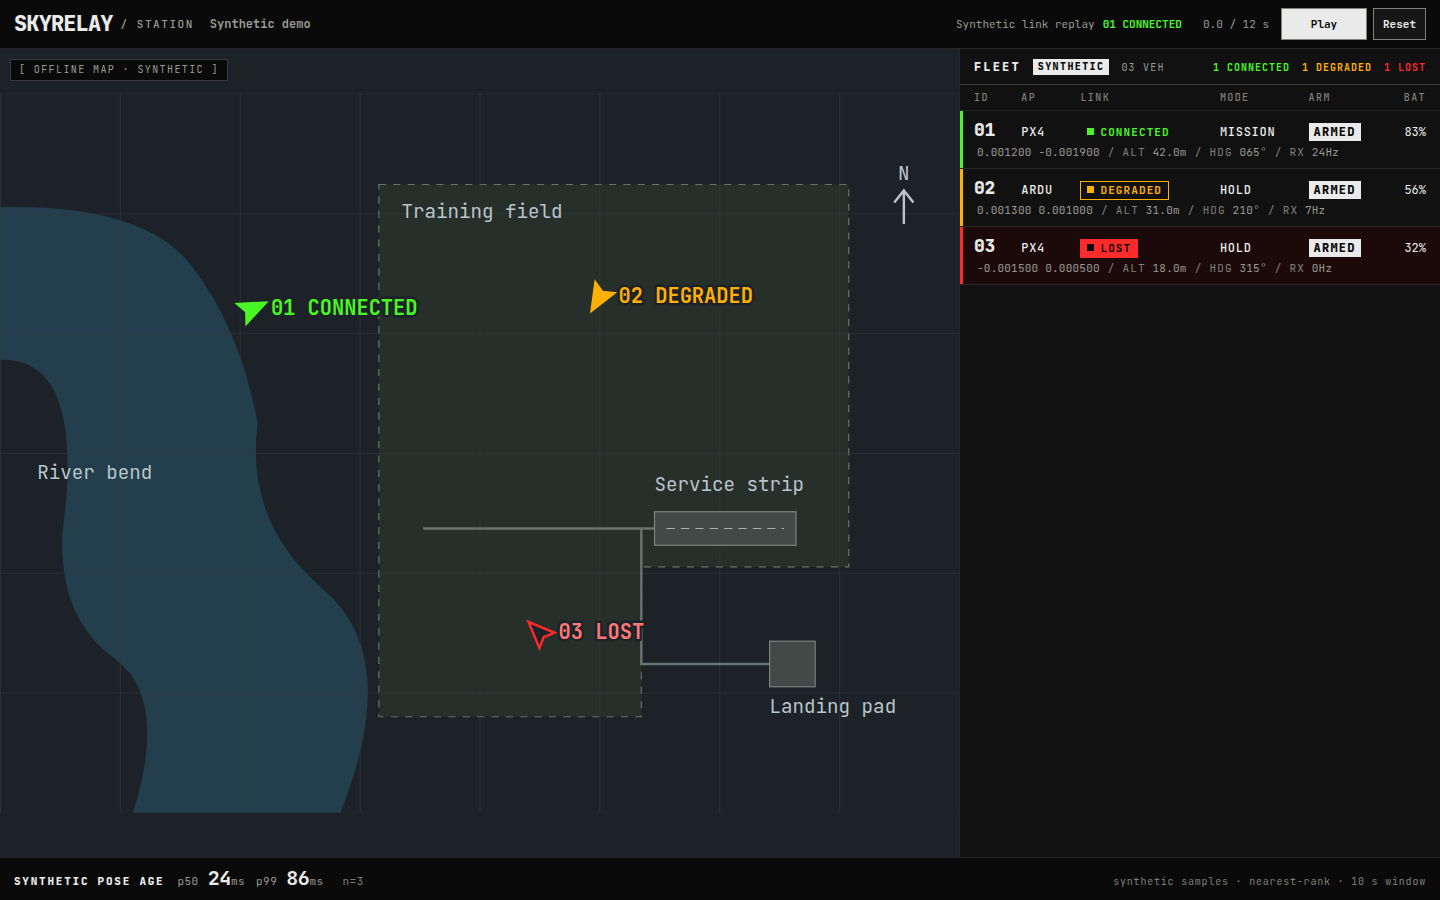
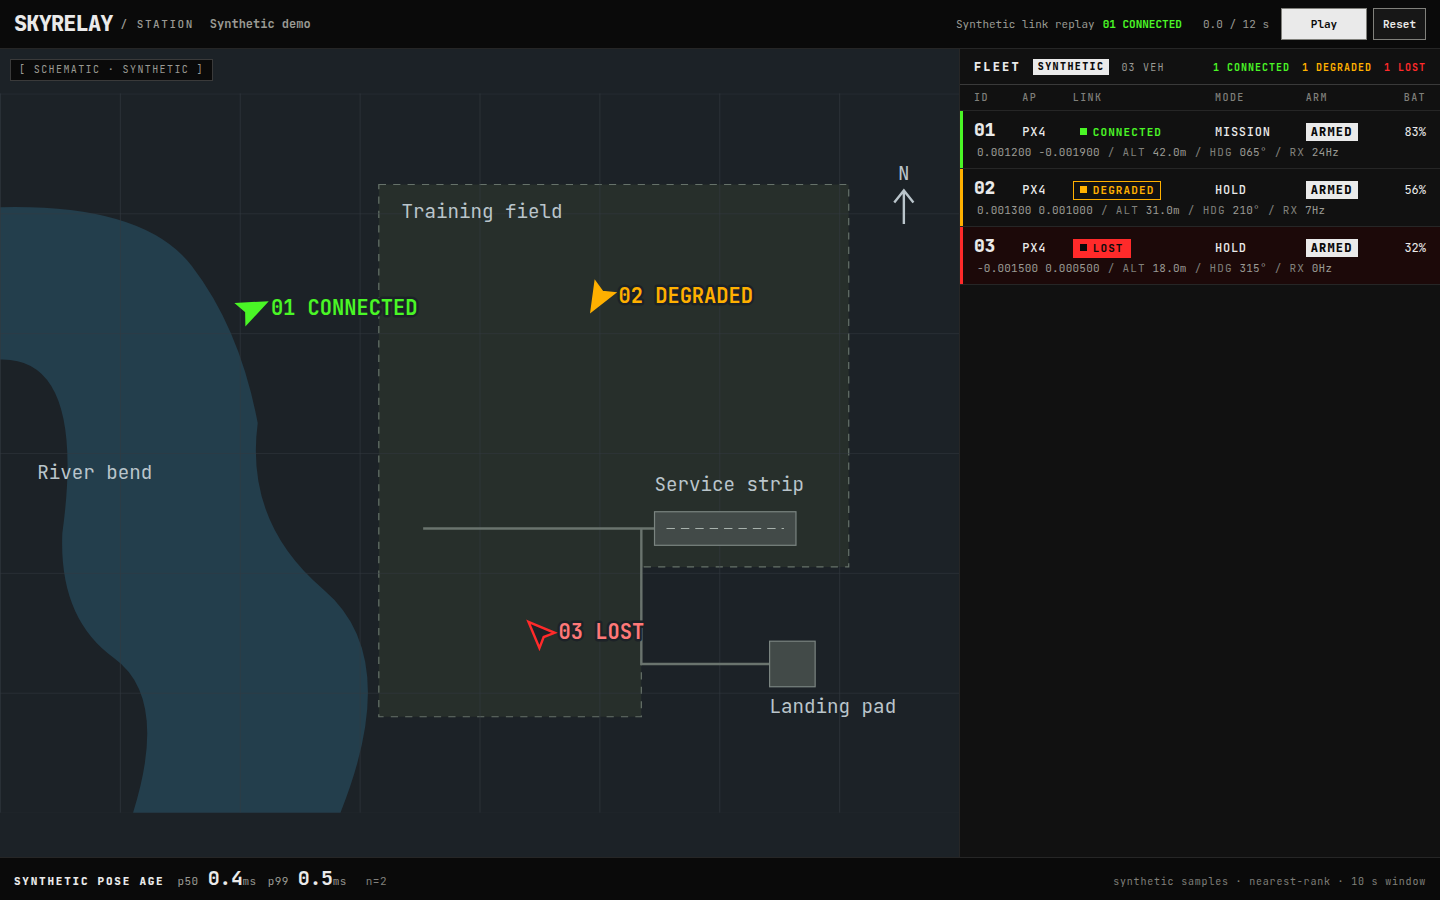
Keep the demo's pose ages small and flat, make every demo vehicle PX4 and call its map a schematic

diff --git a/web/station/src/demo/snapshot.ts b/web/station/src/demo/snapshot.ts
@@ -6,10 +6,15 @@ import { countsForLatency, LatencyWindow } from '../state/latency'
 
 export const SCHEMATIC_BOUNDS = { west: -0.004, east: 0.004, north: 0.003, south: -0.003 }
 
+// Synthetic pose ages are flat and small, the order of what the bridge and
+// DDS add on one host. A bad link does not make the samples that do arrive
+// older; it means fewer of them (a lower RX rate, a smaller n in the HUD), so
+// that is how the demo shows it. A lost vehicle's last pose is older than the
+// HUD's 10 s window and adds no sample at all.
 const vehicles = [
-  { id: 1, lon: -0.0019, lat: 0.0012, heading: 65, altitude: 42, battery: 83, rx: 24, age: 12, link: 'LINK_CONNECTED' },
-  { id: 2, lon: 0.0010, lat: 0.0013, heading: 210, altitude: 31, battery: 56, rx: 7, age: 24, link: 'LINK_DEGRADED' },
-  { id: 3, lon: 0.0005, lat: -0.0015, heading: 315, altitude: 18, battery: 32, rx: 0, age: 86, link: 'LINK_LOST' },
+  { id: 1, lon: -0.0019, lat: 0.0012, heading: 65, altitude: 42, battery: 83, rx: 24, age: 0.4, link: 'LINK_CONNECTED' },
+  { id: 2, lon: 0.0010, lat: 0.0013, heading: 210, altitude: 31, battery: 56, rx: 7, age: 0.5, link: 'LINK_DEGRADED' },
+  { id: 3, lon: 0.0005, lat: -0.0015, heading: 315, altitude: 18, battery: 32, rx: 0, age: null, link: 'LINK_LOST' },
 ] as const satisfies ReadonlyArray<{
   id: number
   lon: number
@@ -18,7 +23,7 @@ const vehicles = [
   altitude: number
   battery: number
   rx: number
-  age: number
+  age: number | null
   link: LinkState
 }>
 
@@ -29,7 +34,7 @@ const samples = vehicles.flatMap<SampleMsg>((v) => {
     {
       type: 'sample', topic: 'vehicle_info', age_ms: null,
       data: {
-        ...fields, header: header(VehicleInfoValid.autopilot), autopilot: v.id === 2 ? 'AUTOPILOT_ARDUPILOT' : 'AUTOPILOT_PX4',
+        ...fields, header: header(VehicleInfoValid.autopilot), autopilot: 'AUTOPILOT_PX4',
         firmware_version: '', vehicle_type: 'VEHICLE_TYPE_UNKNOWN', mav_sysid: 0, mav_compid: 0,
         capabilities: 0, contract_version: '',
       },
@@ -73,14 +78,16 @@ const replayVehicle = vehicles[0]
 export const REPLAY_VEHICLE_ID = replayVehicle.id
 export const REPLAY_SECONDS = 12
 
-const connected = { link: replayVehicle.link, rx: replayVehicle.rx, ageMs: replayVehicle.age }
+// poseEverySeconds: how often a pose gets through in that phase (null: none).
+// Every pose that does arrives with the same small age.
+const connected = { link: replayVehicle.link, rx: replayVehicle.rx, poseEverySeconds: 1 }
 const replayPhases = [
   { second: 0, ...connected },
-  { second: 3, link: 'LINK_DEGRADED', rx: 7, ageMs: 72 },
-  { second: 5, link: 'LINK_LOST', rx: 0, ageMs: null },
-  { second: 8, link: 'LINK_RECOVERING', rx: 12, ageMs: 44 },
+  { second: 3, link: 'LINK_DEGRADED', rx: 7, poseEverySeconds: 2 },
+  { second: 5, link: 'LINK_LOST', rx: 0, poseEverySeconds: null },
+  { second: 8, link: 'LINK_RECOVERING', rx: 12, poseEverySeconds: 1 },
   { second: 10, ...connected },
-] as const satisfies ReadonlyArray<{ second: number; link: LinkState; rx: number; ageMs: number | null }>
+] as const satisfies ReadonlyArray<{ second: number; link: LinkState; rx: number; poseEverySeconds: number | null }>
 
 // Build the frames once on the replay clock. Skipped renders then have no
 // effect on the fleet state or which samples make it into the HUD window.
@@ -112,11 +119,12 @@ export function demoReplayFrames() {
         },
       }, nowMs)
     }
-    if (phase.ageMs !== null) {
+    const every = phase.poseEverySeconds
+    if (every !== null && (second - phase.second + 1) % every === 0) {
       posesReceived++
       const pose = initial.pose!
       apply({
-        type: 'sample', topic: 'pose', age_ms: phase.ageMs,
+        type: 'sample', topic: 'pose', age_ms: replayVehicle.age,
         data: {
           ...pose, header: { ...pose.header, seq: second + 1 },
           lon_deg: replayVehicle.lon + posesReceived * 0.000012,

diff --git a/web/station/src/App.test.tsx b/web/station/src/App.test.tsx
@@ -42,9 +42,13 @@ test('explicit demo URL renders the synthetic fleet, map and pose ages without a
   expect(screen.getByText('Synthetic link replay')).toBeTruthy()
   expect(within(screen.getByRole('region', { name: 'Fleet' })).getByText('SYNTHETIC')).toBeTruthy()
   const hud = screen.getByLabelText('Synthetic pose age')
-  expect(within(hud).getByText('24')).toBeTruthy()
-  expect(within(hud).getByText('86')).toBeTruthy()
+  // Flat, small synthetic ages: the lost vehicle adds no sample.
+  expect(within(hud).getByText('0.4')).toBeTruthy()
+  expect(within(hud).getByText('0.5')).toBeTruthy()
+  expect(within(hud).getByText('n=2')).toBeTruthy()
   expect(within(hud).queryByText(/rtt/i)).toBeNull()
+  expect(within(fleet).getAllByText('PX4')).toHaveLength(3)
+  expect(screen.getByText('SCHEMATIC · SYNTHETIC')).toBeTruthy()
   expect(openSocket).not.toHaveBeenCalled()
 })
 
@@ -126,13 +130,13 @@ test('reset stops a running replay and restores the snapshot and its timing samp
   advance(4000)
   expect(elapsed()).toBe('0.0 / 12 s')
   expect(map.getByText('01 CONNECTED').closest('g')?.getAttribute('transform')).toBe(initialPose)
-  expect(hud.getByText('n=3')).toBeTruthy()
-  expect(hud.getByText('24')).toBeTruthy()
-  expect(hud.getByText('86')).toBeTruthy()
+  expect(hud.getByText('n=2')).toBeTruthy()
+  expect(hud.getByText('0.4')).toBeTruthy()
+  expect(hud.getByText('0.5')).toBeTruthy()
   expect(vi.getTimerCount()).toBe(0)
 })
 
-test('replay holds the last pose and adds no timing samples while vehicle 01 is lost', () => {
+test('replay costs vehicle 01 samples, not age, while degraded and adds none while lost', () => {
   const { click, advance } = startReplayTest()
   const map = within(screen.getByRole('img', { name: 'Synthetic schematic map' }))
   const hud = within(screen.getByLabelText('Synthetic pose age'))
@@ -140,19 +144,26 @@ test('replay holds the last pose and adds no timing samples while vehicle 01 is 
   const initialPose = pose('01 CONNECTED')
 
   click('Play')
-  advance(4000)
+  advance(2000)
+  expect(hud.getByText('n=4')).toBeTruthy()
+  // Degraded from 3 s: one pose in two seconds, at the same age as before.
+  advance(1000)
+  expect(hud.getByText('n=4')).toBeTruthy()
+  advance(1000)
   const lastPose = pose('01 DEGRADED')
   expect(lastPose).not.toBe(initialPose)
-  expect(hud.getByText('n=7')).toBeTruthy()
+  expect(hud.getByText('n=5')).toBeTruthy()
+  expect(hud.getByText('0.4')).toBeTruthy()
+  expect(hud.getByText('0.5')).toBeTruthy()
   advance(1000)
   expect(pose('01 LOST')).toBe(lastPose)
   screen.getByRole('img', { name: 'Synthetic schematic map', description: /vehicle 01.*lost its link.*last reported position/i })
   advance(2000)
   expect(pose('01 LOST')).toBe(lastPose)
-  expect(hud.getByText('n=7')).toBeTruthy()
+  expect(hud.getByText('n=5')).toBeTruthy()
   advance(1000)
   expect(pose('01 RECOVERING')).not.toBe(lastPose)
-  expect(hud.getByText('n=8')).toBeTruthy()
+  expect(hud.getByText('n=6')).toBeTruthy()
   screen.getByRole('img', { name: 'Synthetic schematic map', description: /vehicle 01 is recovering/i })
   advance(2000)
   expect(map.getByText('01 CONNECTED')).toBeTruthy()
@@ -164,11 +175,12 @@ test('replay expires the snapshot timing samples at exactly ten seconds', () => 
 
   click('Play')
   advance(9000)
-  expect(hud.getByText('n=9')).toBeTruthy()
-  advance(999)
-  expect(hud.getByText('n=9')).toBeTruthy()
-  advance(1)
   expect(hud.getByText('n=7')).toBeTruthy()
+  advance(999)
+  expect(hud.getByText('n=7')).toBeTruthy()
+  // At 10 s the two snapshot samples leave the window and one new pose arrives.
+  advance(1)
+  expect(hud.getByText('n=6')).toBeTruthy()
 })
 
 test.each(['/', '/?demo=0', '/?demo'])('%s uses the normal gateway by default', (url) => {

diff --git a/web/station/src/demo/SchematicMap.tsx b/web/station/src/demo/SchematicMap.tsx
@@ -76,7 +76,7 @@ export function SchematicMap({ fleet }: { fleet: FleetState }) {
           )
         })}
       </svg>
-      <div className="map-tag" aria-hidden="true">OFFLINE MAP · SYNTHETIC</div>
+      <div className="map-tag" aria-hidden="true">SCHEMATIC · SYNTHETIC</div>
     </div>
   )
 }

diff --git a/README.md b/README.md
@@ -166,9 +166,10 @@ no vehicles.
 ## Quick look without the simulation
 
 The station has a standalone demo that runs entirely in the browser. **All of
-its data is synthetic:** three made-up vehicles on a schematic map, fixed
-pose-age samples, and a scripted 12 s link replay in which vehicle 01 degrades
-at 3 s, loses its link at 5 s, starts recovering at 8 s and reconnects at 10 s.
+its data is synthetic:** three made-up PX4 vehicles on a schematic map, a few
+fixed pose-age samples, and a scripted 12 s link replay in which vehicle 01
+degrades at 3 s, loses its link at 5 s, starts recovering at 8 s and
+reconnects at 10 s. A worse link shows as fewer pose samples, not older ones.
 No gateway, simulator or vehicle is involved, and none of its numbers are
 measurements.
 
@@ -181,7 +182,7 @@ npm run preview -- --host 127.0.0.1 --port 4173 --strictPort
 
 Open <http://127.0.0.1:4173/?demo=1>.
 
-![The station in demo mode with three synthetic vehicles](docs/demo/standalone-dashboard.png)
+![The standalone demo: three synthetic PX4 vehicles on a schematic map, labelled synthetic](docs/demo/standalone-dashboard.png)
 
 ## Benchmark
 
